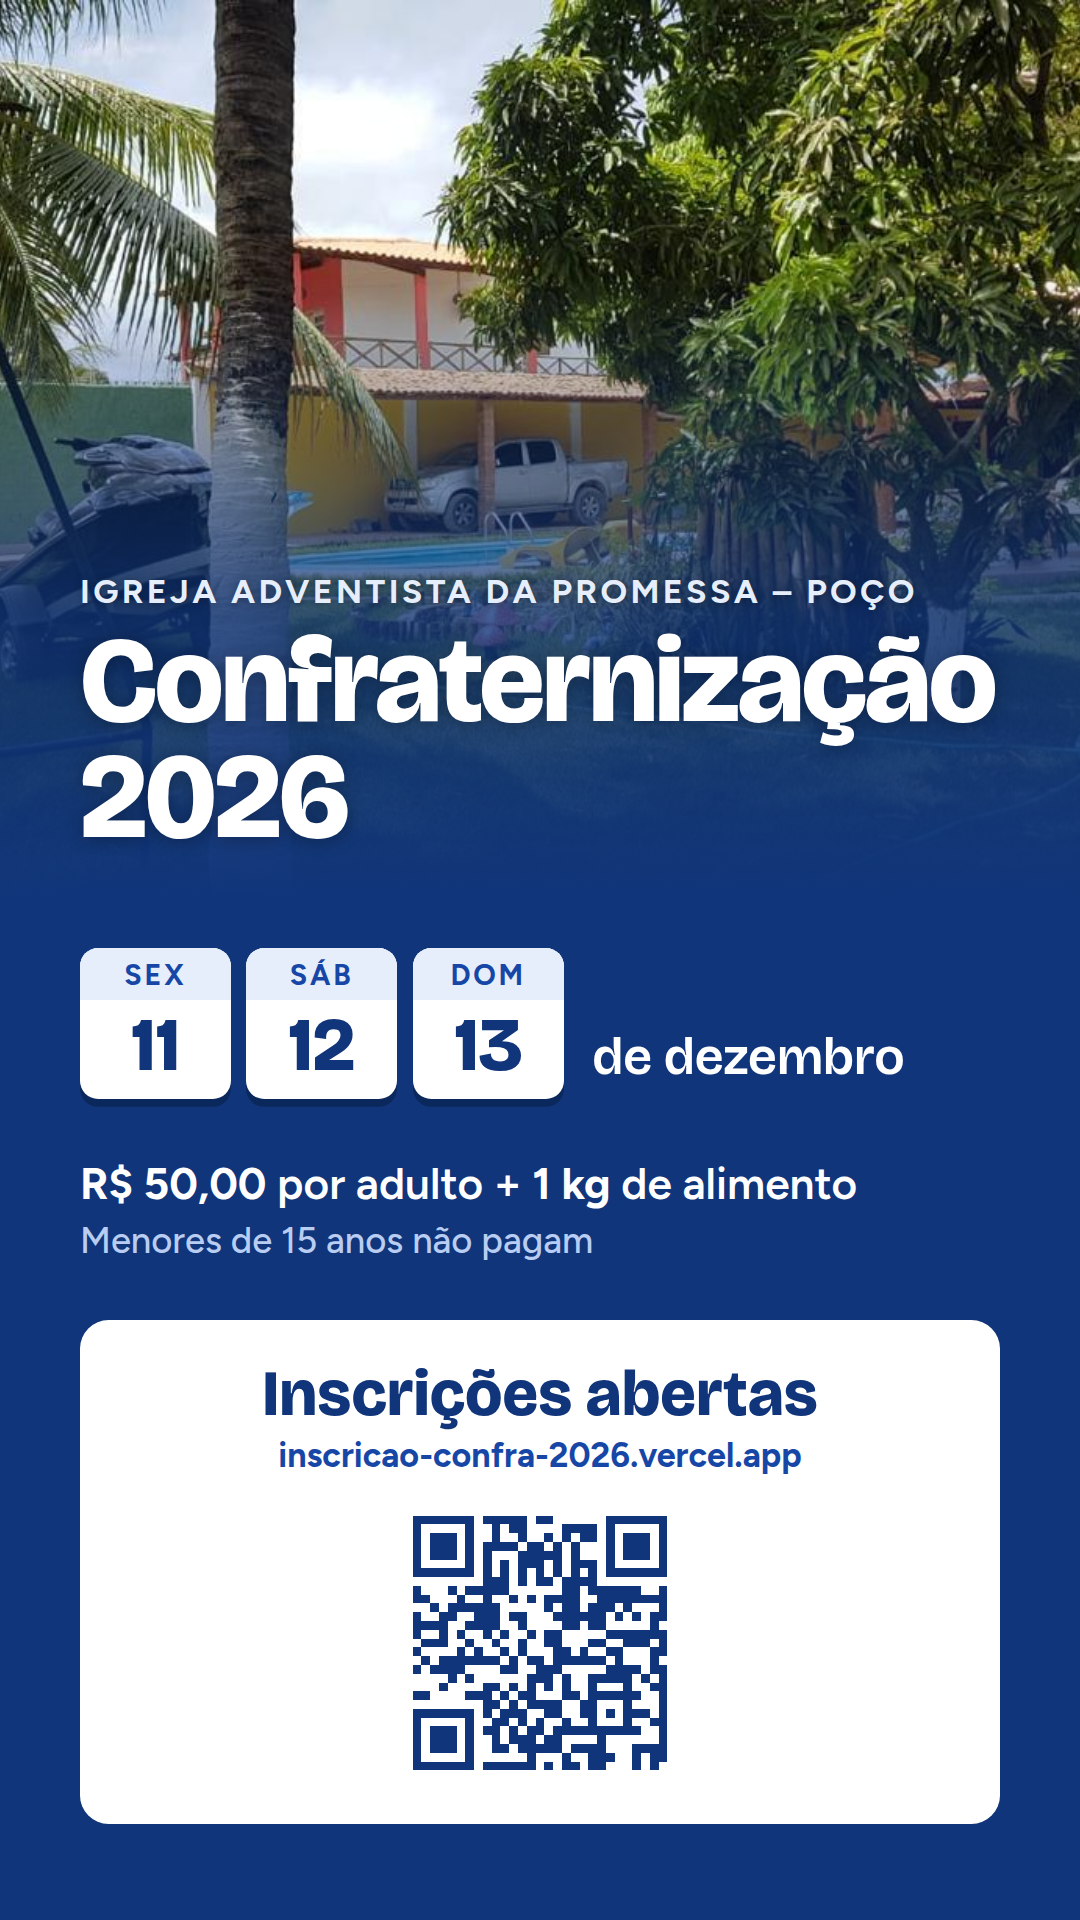
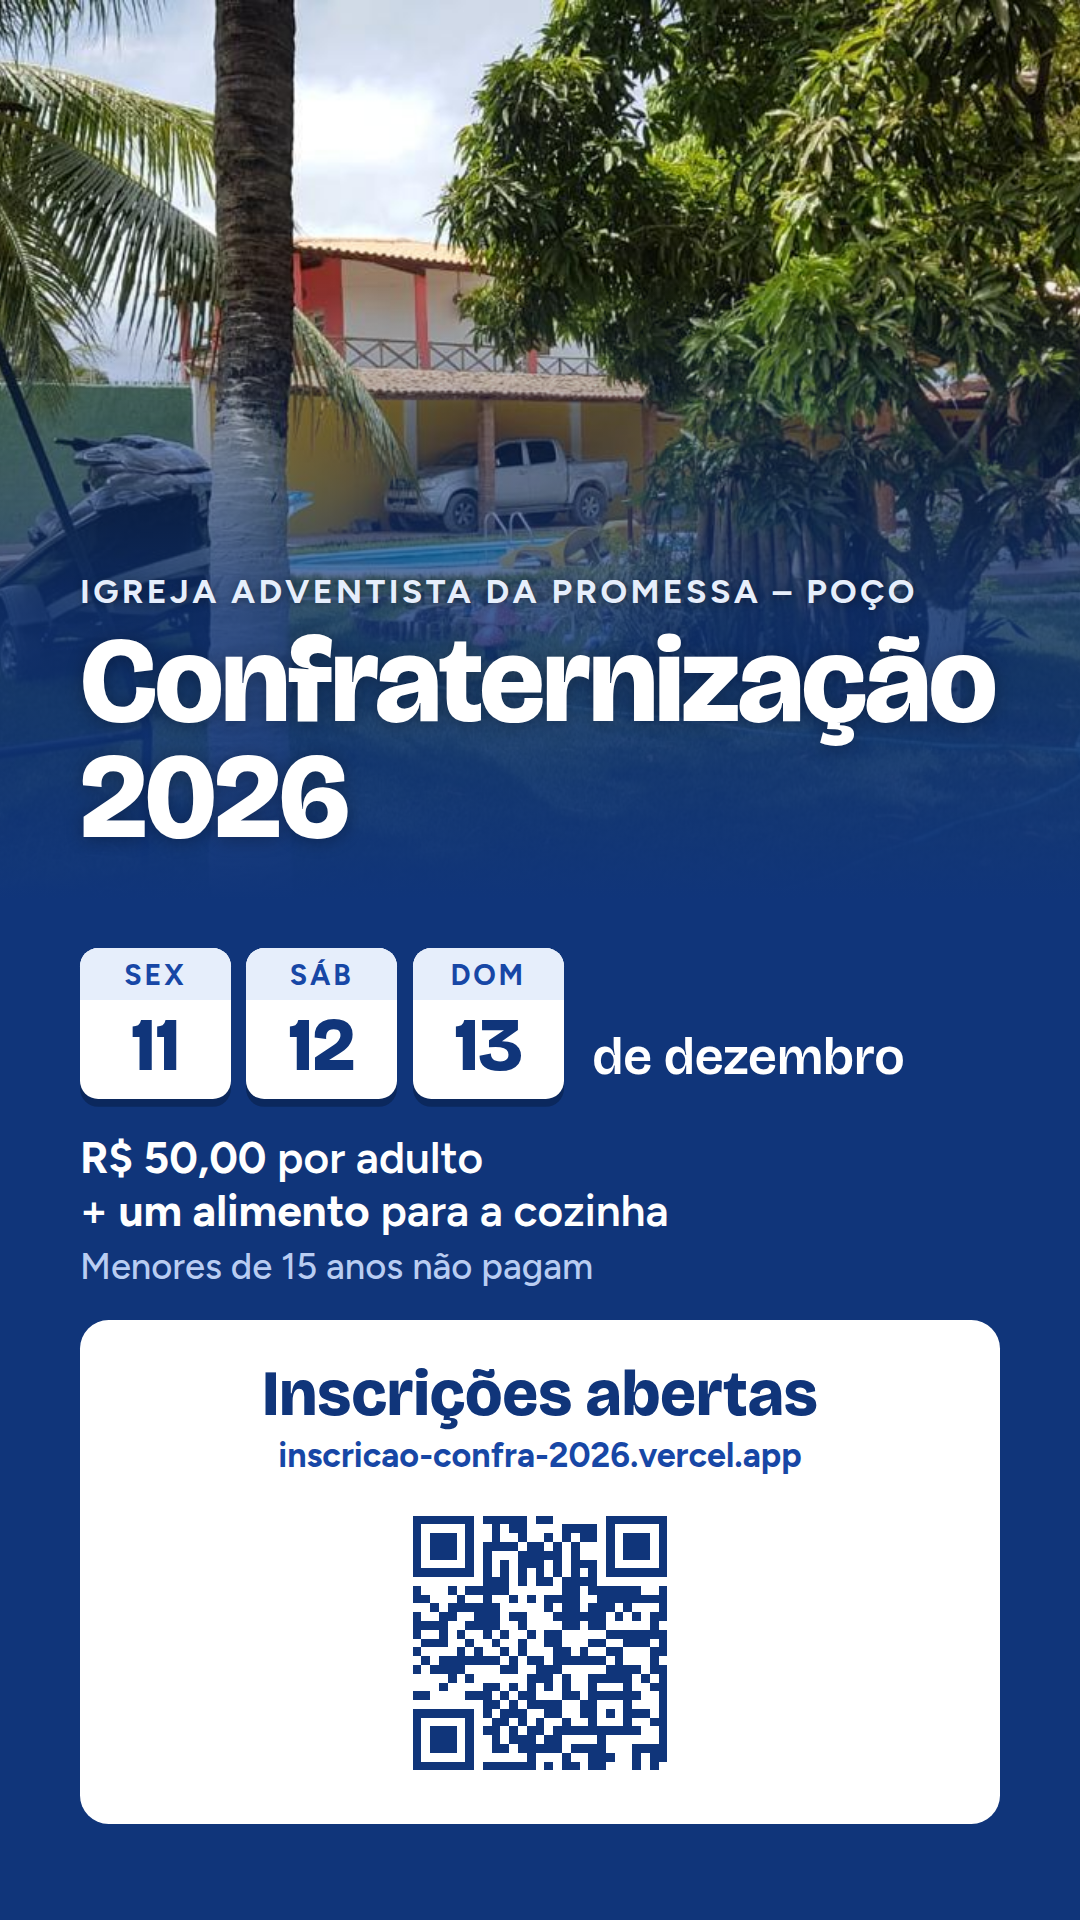
Alimentos com quantidade por item, para cada adulto gastar o mesmo
A lista passa a ter 11 itens (entram leite, óleo, farinha, ovos, frango e
carne). Cada item tem a sua quantidade, calculada pelo preço mediano da
pesquisa do Procon Maceió de outubro de 2026 para custar perto de R$ 10.

A planilha recebe o alimento já com a quantidade ("2 kg de arroz"). O topo,
o cartão de cada pessoa, a barra e os banners deixam de falar em "1 kg".

Changed region(s): [[0.0611, 0.5938, 0.7944, 0.6875]]

diff --git a/site/app.js b/site/app.js
@@ -49,7 +49,6 @@
   const $ = (id) => document.getElementById(id);
   const brl = (v) => Number(v).toLocaleString('pt-BR', { style: 'currency', currency: 'BRL' });
   const plural = (n, um, varios) => n + ' ' + (n === 1 ? um : varios);
-  const kg = (n) => Number(n).toLocaleString('pt-BR') + ' kg';
   const rolagem = window.matchMedia('(prefers-reduced-motion: reduce)').matches ? 'auto' : 'smooth';
   const telaPequena = window.matchMedia('(max-width: 700px)');
   const soDigitos = (v) => String(v || '').replace(/\D/g, '');
@@ -220,7 +219,6 @@
       adultos: adultos,
       menores: comIdade.length - adultos,
       total: adultos * C.valorAdulto,
-      kg: adultos * C.kgPorAdulto,
     };
   }
 
@@ -239,8 +237,38 @@
     return plural(i, 'ano', 'anos');
   }
 
-  const nomeAlimento = (p) => p.alimento || 'alimento não perecível';
-  const alimentoTexto = (p) => kg(C.kgPorAdulto) + ' de ' + nomeAlimento(p);
+  // Usado quando a lista de alimentos do config.js está vazia
+  const ALIMENTO_GENERICO = { nome: 'alimento não perecível', quantidade: 1, unidade: 'kg' };
+  const UNIDADES_ABREVIADAS = { kg: 'kg', g: 'g', l: 'L', ml: 'ml' };
+
+  const listaAlimentos = () => (C.alimentos || []).filter((a) => a && a.nome);
+  const itemDe = (p) => listaAlimentos().find((a) => a.nome === p.alimento) || ALIMENTO_GENERICO;
+
+  /* "2 kg de arroz", "1 dúzia de ovos", "4 pacotes de macarrão".
+     "vezes" soma a quantidade quando mais de um adulto leva o mesmo item. */
+  function quantidadeTexto(item, vezes) {
+    // Item só com o nome (como no config.js antigo) vale 1 kg
+    const semMedida = item.quantidade == null && item.unidade == null;
+    let q = (Number(item.quantidade) > 0 ? Number(item.quantidade) : 1) * (vezes || 1);
+    let u = semMedida ? 'kg' : String(item.unidade || '').trim();
+    const abreviada = UNIDADES_ABREVIADAS[u.toLowerCase()];
+    if (abreviada) {
+      u = abreviada;
+      if (u === 'g' && q >= 1000) {
+        q /= 1000;
+        u = 'kg';
+      } else if (u === 'ml' && q >= 1000) {
+        q /= 1000;
+        u = 'L';
+      }
+    } else if (u && q > 1) {
+      u = u.replace(/^\S+/, (palavra) => palavra + 's'); // pacote → pacotes, dúzia → dúzias
+    }
+    const numero = q.toLocaleString('pt-BR', { maximumFractionDigits: 2 });
+    return numero + ' ' + (u ? u + ' de ' : '') + item.nome;
+  }
+
+  const alimentoTexto = (p) => quantidadeTexto(itemDe(p), 1);
   const primeiroNome = (p) => p.nome.trim().split(/\s+/)[0];
 
   function detalheTotal(t) {
@@ -284,7 +312,7 @@
      Dentro da mesma inscrição a página evita repetir enquanto houver opção.
      Quem já tem alimento fica com ele. */
   function sortearAlimentos() {
-    const lista = (C.alimentos || []).filter((a) => a && a.nome);
+    const lista = listaAlimentos();
     const peso = (a) => (Number(a.proporcao) > 0 ? Number(a.proporcao) : 1);
     const adultos = estado.pessoas.filter(ehAdulto);
 
@@ -322,12 +350,12 @@
   function resumoAlimentos() {
     const grupos = new Map();
     estado.pessoas.filter(ehAdulto).forEach((p) => {
-      const nome = nomeAlimento(p);
-      if (!grupos.has(nome)) grupos.set(nome, []);
-      grupos.get(nome).push(primeiroNome(p));
+      const item = itemDe(p);
+      if (!grupos.has(item)) grupos.set(item, []);
+      grupos.get(item).push(primeiroNome(p));
     });
     return Array.from(grupos, (par) => ({
-      texto: kg(par[1].length * C.kgPorAdulto) + ' de ' + par[0],
+      texto: quantidadeTexto(par[0], par[1].length),
       quem: par[1],
     }));
   }
@@ -365,7 +393,9 @@
     regra.append(
       elTexto('strong', '', brl(C.valorAdulto) + ' por adulto'),
       ' (' + C.idadeAdulto + ' anos ou mais) e ',
-      elTexto('strong', '', kg(C.kgPorAdulto) + ' de alimento'),
+      ...(listaAlimentos().length
+        ? [elTexto('strong', '', 'um alimento'), ' para a cozinha (a inscrição mostra qual e quanto)']
+        : [elTexto('strong', '', quantidadeTexto(ALIMENTO_GENERICO, 1))]),
       '. Menores de ' + C.idadeAdulto + ' anos não pagam.'
     );
   }
@@ -504,7 +534,7 @@
       s.textContent = 'Informe a idade para calcular';
     } else if (i >= C.idadeAdulto) {
       s.dataset.tipo = 'adulto';
-      s.textContent = 'Adulto · ' + brl(C.valorAdulto) + ' + ' + kg(C.kgPorAdulto) + ' de alimento';
+      s.textContent = 'Adulto · ' + brl(C.valorAdulto) + ' + alimento';
     } else {
       s.dataset.tipo = 'menor';
       s.textContent = 'Menor de ' + C.idadeAdulto + ' anos · não paga';
@@ -665,7 +695,6 @@
     const partes = [];
     if (t.adultos) partes.push(plural(t.adultos, 'adulto', 'adultos'));
     if (t.menores) partes.push(plural(t.menores, 'menor', 'menores') + ' de ' + C.idadeAdulto + ' anos');
-    if (t.adultos) partes.push(kg(t.kg) + ' de alimento');
     $('barra-detalhe').textContent = partes.length ? partes.join(' · ') : 'Informe as idades para calcular';
 
     const visivel = estado.etapa === 1 && formularioNaTela && !tecladoAberto();
@@ -769,7 +798,7 @@
         adulto: ehAdulto(p),
         igreja: igrejaTexto(p),
         valor: ehAdulto(p) ? C.valorAdulto : 0,
-        alimento: ehAdulto(p) ? nomeAlimento(p) : '',
+        alimento: ehAdulto(p) ? alimentoTexto(p) : '',
       })),
     };
   }
@@ -1019,6 +1048,7 @@
       li.append(elTexto('span', '', a.texto), elTexto('span', '', listaComE(a.quem)));
       levar.append(li);
     });
+    $('levar-nota').hidden = !listaAlimentos().length;
     $('levar').hidden = !t.adultos;
   }
 

diff --git a/site/config.js b/site/config.js
@@ -17,19 +17,33 @@ window.CONFRA = {
   // Regras de valor
   valorAdulto: 50, // R$ por adulto
   idadeAdulto: 15, // paga quem tem esta idade ou mais
-  kgPorAdulto: 1, // quilos de alimento por adulto
 
   /*
-   * Alimentos que a página distribui entre os adultos (um por adulto).
-   * "proporcao" define a frequência: quem tem 3 aparece três vezes mais do que quem tem 1.
-   * Deixe a lista vazia ([]) para mostrar apenas "1 kg de alimento não perecível".
+   * Alimento que cada adulto leva. A página sorteia um item da lista para cada adulto
+   * e, dentro da mesma inscrição, evita repetir.
+   *
+   * As quantidades fazem cada pessoa gastar mais ou menos o mesmo, perto de R$ 10.
+   * A conta usa o preço mediano da pesquisa do Procon Maceió de 6 e 7 de outubro de 2026
+   * (9 mercados) e está no comentário de cada linha.
+   *
+   * quantidade + unidade: o que a pessoa leva. A unidade pode ser 'kg', 'g', 'L', 'ml'
+   *   ou uma palavra no singular, como 'pacote', 'dúzia' ou 'garrafa' (o plural sai sozinho).
+   * proporcao: quantas vezes o item sai em relação aos outros (3 sai três vezes mais que 1).
+   *
+   * Deixe a lista vazia ([]) para pedir apenas "1 kg de alimento não perecível".
    */
   alimentos: [
-    { nome: 'arroz', proporcao: 3 },
-    { nome: 'feijão', proporcao: 2 },
-    { nome: 'macarrão', proporcao: 2 },
-    { nome: 'açúcar', proporcao: 1 },
-    { nome: 'flocão de milho (cuscuz)', proporcao: 1 },
+    { nome: 'arroz', quantidade: 2, unidade: 'kg', proporcao: 3 }, // 2 × R$ 5,49 = R$ 10,98
+    { nome: 'feijão', quantidade: 1, unidade: 'kg', proporcao: 3 }, // R$ 8,49
+    { nome: 'frango', quantidade: 1, unidade: 'kg', proporcao: 3 }, // R$ 13,98 (frango inteiro)
+    { nome: 'carne', quantidade: 250, unidade: 'g', proporcao: 3 }, // R$ 45,90 o kg (coxão mole) = R$ 11,48
+    { nome: 'macarrão', quantidade: 4, unidade: 'pacote', proporcao: 2 }, // 4 × R$ 2,62 (400 g) = R$ 10,48
+    { nome: 'flocão de milho (cuscuz)', quantidade: 3, unidade: 'kg', proporcao: 2 }, // 6 × R$ 1,79 (500 g) = R$ 10,74
+    { nome: 'leite', quantidade: 1, unidade: 'L', proporcao: 2 }, // R$ 7,99
+    { nome: 'ovos', quantidade: 1, unidade: 'dúzia', proporcao: 2 }, // R$ 18,86 a cartela de 30 = R$ 7,54 a dúzia
+    { nome: 'óleo (900 ml)', quantidade: 1, unidade: 'garrafa', proporcao: 2 }, // R$ 8,98
+    { nome: 'açúcar', quantidade: 3, unidade: 'kg', proporcao: 1 }, // 3 × R$ 3,49 = R$ 10,47
+    { nome: 'farinha', quantidade: 2, unidade: 'kg', proporcao: 1 }, // 2 × R$ 6,32 (mandioca) = R$ 12,64
   ],
 
   /*

diff --git a/site/index.html b/site/index.html
@@ -42,8 +42,8 @@
       </div>
       <p class="topo-local" id="topo-local" hidden></p>
       <p class="topo-regra" id="topo-regra">
-        <strong>R$ 50,00 por adulto</strong> (15 anos ou mais) e <strong>1 kg de alimento</strong>.
-        Menores de 15 anos não pagam.
+        <strong>R$ 50,00 por adulto</strong> (15 anos ou mais) e <strong>um alimento</strong> para a cozinha
+        (a inscrição mostra qual e quanto). Menores de 15 anos não pagam.
       </p>
       <a class="botao" id="ir-inscricao" href="#inscricao">Fazer inscrição</a>
     </div>
@@ -183,6 +183,9 @@
         <div class="levar" id="levar" hidden>
           <h3>Alimento para levar</h3>
           <ul id="levar-lista"></ul>
+          <p class="levar-nota" id="levar-nota" hidden>
+            As quantidades mudam de um alimento para outro para que cada adulto gaste mais ou menos o mesmo.
+          </p>
         </div>
 
         <div class="acoes">

diff --git a/divulgacao/banner.html b/divulgacao/banner.html
@@ -121,6 +121,7 @@
     .valores { display: flex; flex-direction: column; gap: calc(var(--escala) * 6px); }
     .valor { font-size: calc(var(--escala) * 34px); font-weight: 600; line-height: 1.2; }
     .valor strong { font-weight: 700; }
+    .valor .junto { white-space: nowrap; }
     .gratis { font-size: calc(var(--escala) * 28px); font-weight: 500; color: var(--azul-suave); }
 
     .chamada {
@@ -189,7 +190,7 @@
         <p class="mes">de dezembro</p>
       </div>
       <div class="valores">
-        <p class="valor"><strong>R$ 50,00</strong> por adulto + <strong>1 kg</strong> de alimento</p>
+        <p class="valor"><strong>R$ 50,00</strong> por adulto <span class="junto">+ <strong>um alimento</strong> para a cozinha</span></p>
         <p class="gratis">Menores de 15 anos não pagam</p>
       </div>
       <div class="chamada">

diff --git a/site/estilo.css b/site/estilo.css
@@ -1042,6 +1042,11 @@ main {
   overflow-wrap: anywhere;
 }
 
+.levar-nota {
+  font-size: 0.875rem;
+  color: var(--tinta-suave);
+}
+
 /* ---------- Pix ---------- */
 
 .pix {
